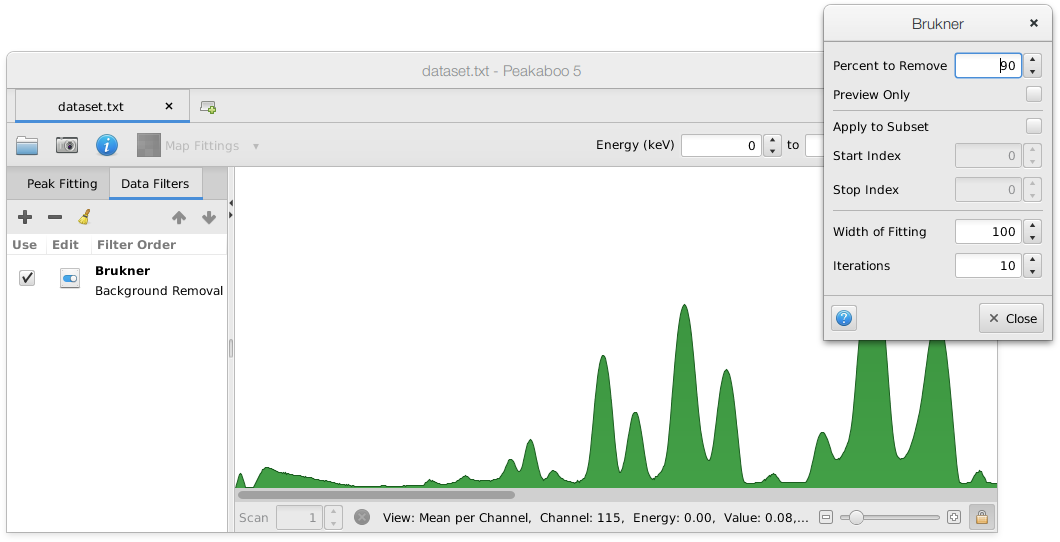
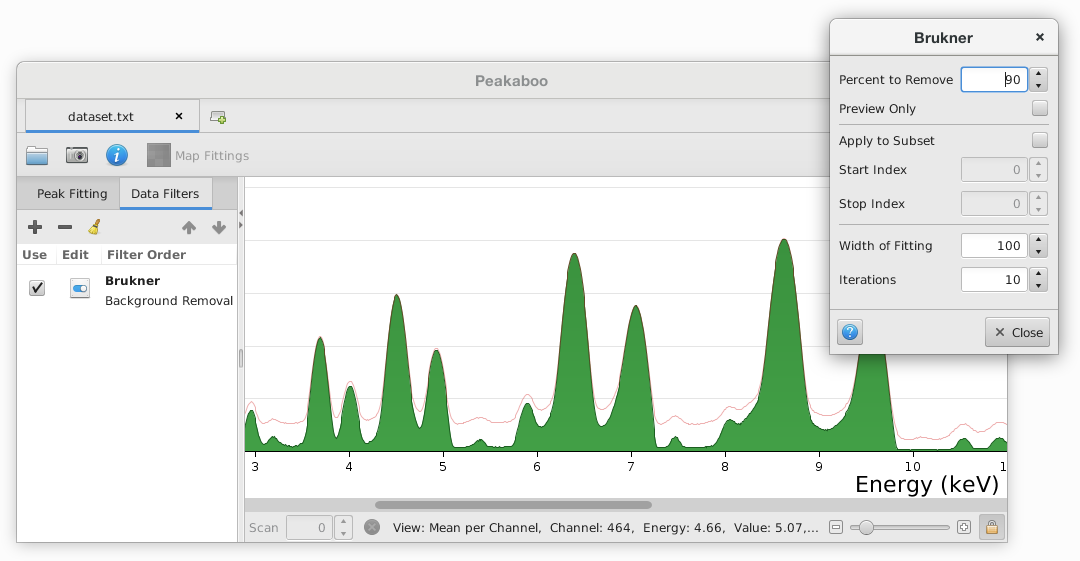
Updated the manual's filter section screenshot

Changed region(s): [[0.0, 0.0, 0.9962, 1.0]]

diff --git a/Documentation/v5/manual.tex b/Documentation/v5/manual.tex
@@ -317,11 +317,9 @@ Once you have added the filter, you can modify or check the parameters associate
 
 To view a full listing of built-in filters and their descriptions, see the appendix.
 
-\screenshot{brukner-filter}{The Brukner background filter's settings window}
+\screenshot{brukner-filter}{The Brukner background filter's settings window with raw data outline in plot}
 
 The use of filters will obviously alter the spectrum. If you wish to see the original spectrum in addition to the filtered data, select \command{\button{view-menu}{View} \menu\ Raw Data Outline}.
-
-\screenshot{raw-outline}{Background-subtracted data with the original data drawn in red.}
 
 \tocsection{Filtering Example with Normalizer Filter}
 
